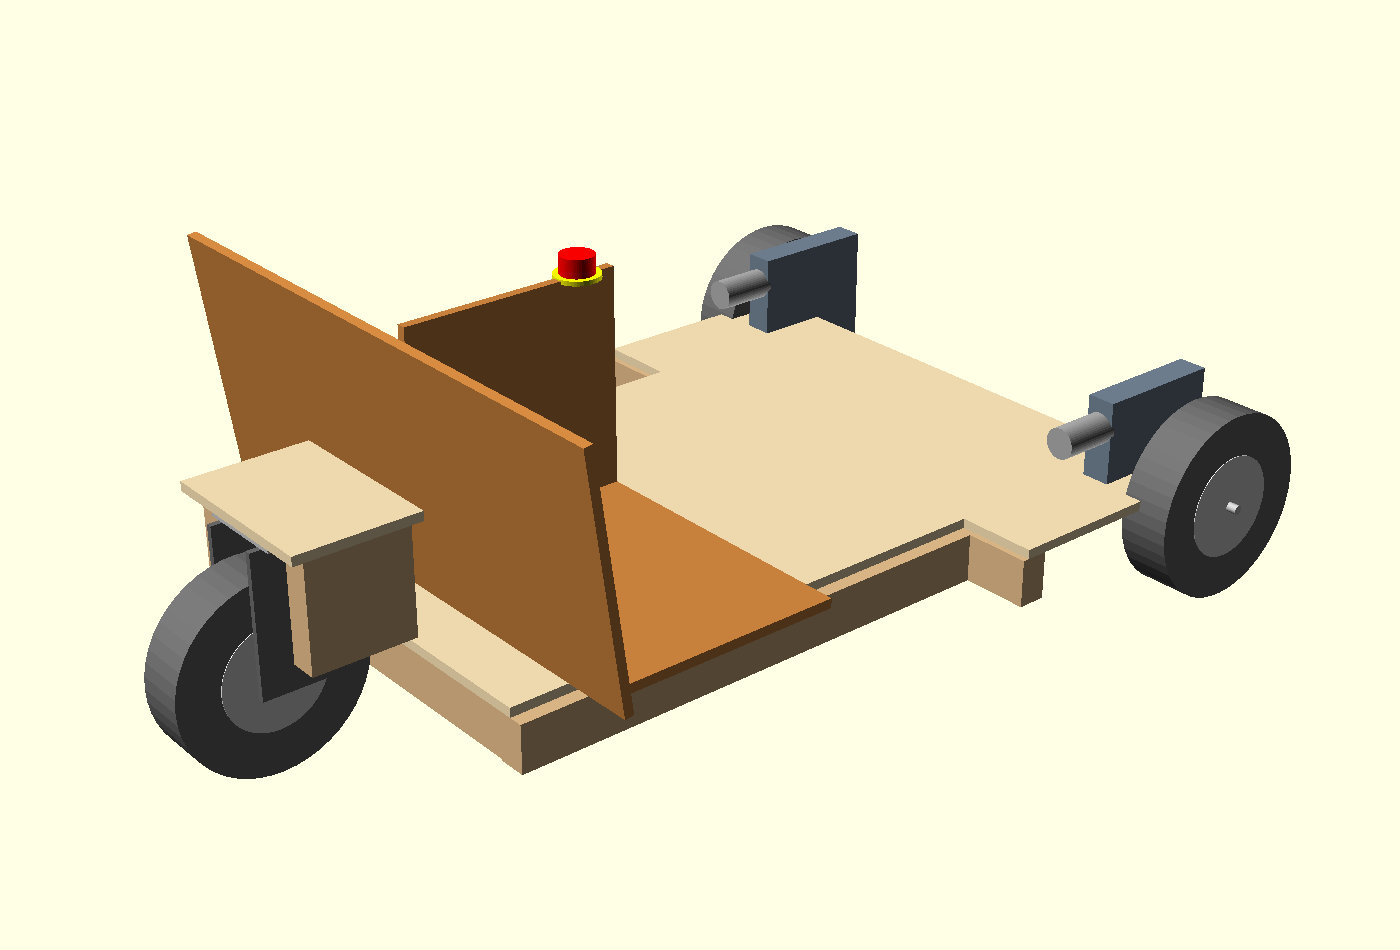
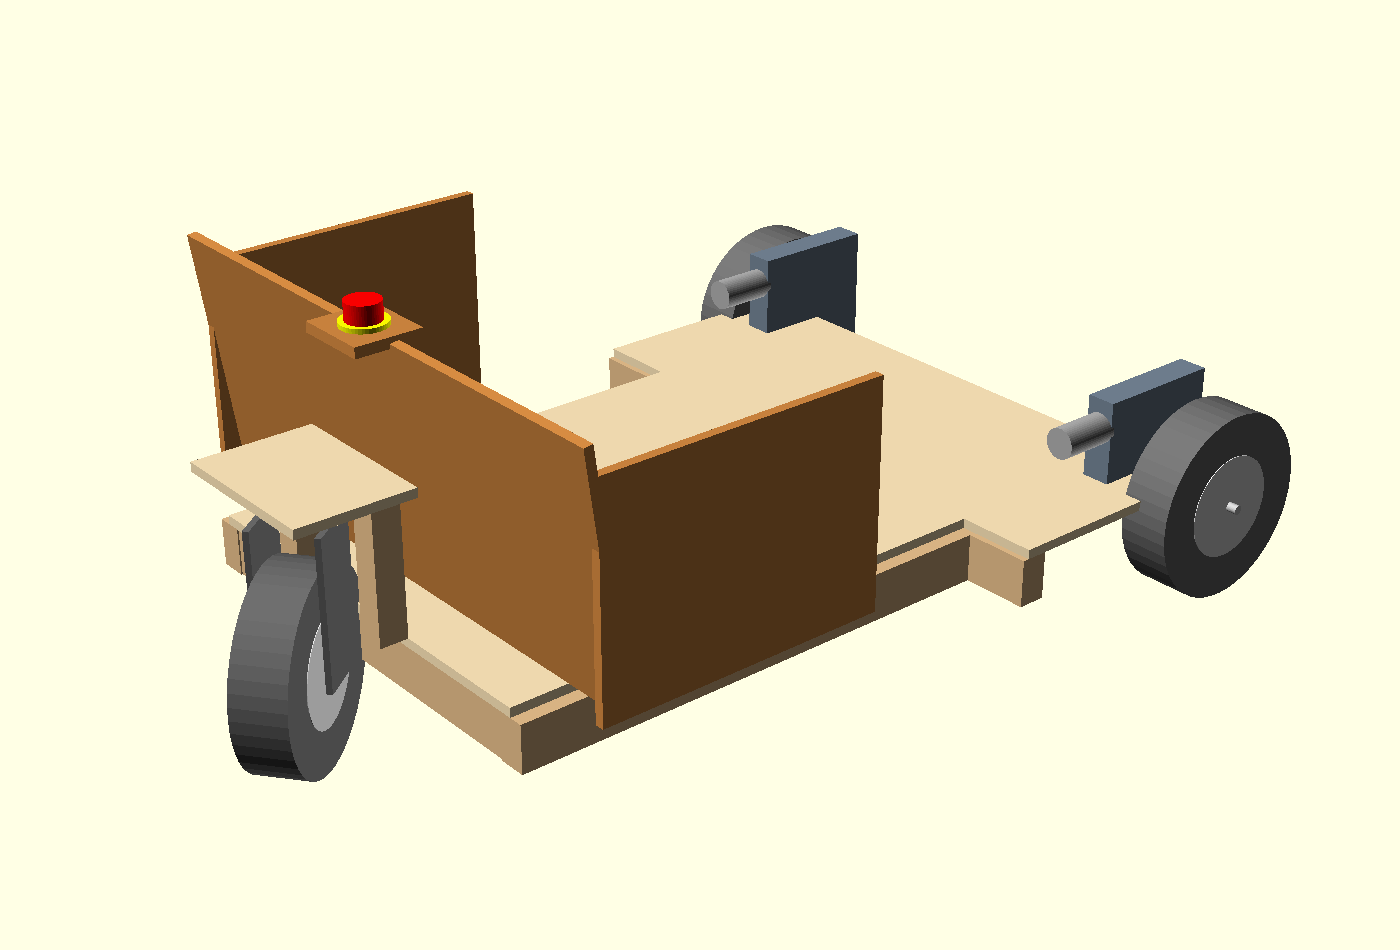
Concept : banquette continue, garde-corps latéraux, roulette pivotante visible
Changements de design demandés :
- plus de séparation centrale entre les deux places (banquette continue) ;
- garde-corps latéraux en CP 1/2" (~30 cm) de chaque côté pour empêcher un
  enfant de tomber ;
- l'arrêt d'urgence migre au SOMMET DU DOSSIER, centré (accessible aux deux
  enfants et à un adulte derrière) ;
- roulette arrière dégagée : support ouvert, axe de pivot apparent et fourche
  dessinée braquée à 38° pour montrer clairement le pivotement.
README mis en cohérence (aperçu, tables, phases de montage, limitations).

Changed region(s): [[0.1536, 0.1832, 0.645, 0.7632], [0.0921, 0.3663, 0.3071, 0.8242]]

diff --git a/README.md b/README.md
@@ -40,7 +40,7 @@ flowchart TB
     subgraph CAB["HABITACLE — banquette unique 2 places (~80 cm)"]
         direction LR
         COND["🧒 CONDUCTEUR (gauche)<br/>manette Bluetooth"]
-        SEP["🛑 séparation centrale<br/>ARRÊT D'URGENCE (e-stop)"]
+        SEP["🛑 ARRÊT D'URGENCE<br/>(sommet du dossier, centré)"]
         PASS["🧒 PASSAGER (droite)<br/>repose-pieds"]
         COND ~~~ SEP ~~~ PASS
     end
@@ -68,9 +68,9 @@ flowchart TB
 
 > Concept visuel régénérable : [`doc/cad/kart_concept.scad`](doc/cad/kart_concept.scad) (OpenSCAD —
 > 2 roues 10″ motorisées à l'avant, roulette 10″ folle sur queue surélevée, banquette 2 enfants,
-> séparation centrale + arrêt d'urgence, châssis 2×3 + contreplaqué 1/2″).
+> garde-corps latéraux, arrêt d'urgence au sommet du dossier, châssis 2×3 + contreplaqué 1/2″).
 
-**Gabarit :** longueur ~150–180 cm · largeur ~96 cm · **voie avant ~84 cm** · **2 roues motrices avant Ø25,4 cm (10″) + baie technique à l'avant** + **1 roulette arrière libre** · **séparation centrale = arrêt d'urgence** · assise basse 16 cm (anti-basculement).
+**Gabarit :** longueur ~150–180 cm · largeur ~96 cm · **voie avant ~84 cm** · **2 roues motrices avant Ø25,4 cm (10″) + baie technique à l'avant** + **1 roulette arrière libre** · **garde-corps latéraux** + **arrêt d'urgence au sommet du dossier (centré)** · assise basse 16 cm (anti-basculement).
 
 > ⚠ Réservé au **terrain plat, sous surveillance adulte**. Vitesse estimée ~8–11,5 km/h (~3,2 m/s), autonomie ~10–20 min. **Un tricycle bascule plus facilement qu'un 4 roues** → anti-renversement logiciel (voir §3).
 
@@ -87,7 +87,7 @@ flowchart TB
 | **Électronique** | **ESP32** → **driver double canal 20 A / 6–30 V** (PWM + DIR / canal), **PWM bridé ~50 %** ; **baie technique à l'AVANT** (près des 2 moteurs, câblage de puissance court) |
 | **Énergie** | **2 × packs 20 V / 5 Ah en parallèle** (diode-OR) + 2 adaptateurs vers bornes de puissance ; **logés à l'AVANT** dans la baie technique |
 | **Vitesse** | Mesurée par **2 capteurs d'angle AS5600** (un par roue, 1 par bus I²C) ; asservissement à **500 Hz** |
-| **Commandes** | Pilotage à la **manette Bluetooth** ; bouton **armement** (physique ou START de la manette, ~1 s) ; **arrêt d'urgence matériel** sur la **séparation centrale** de l'habitacle (coupe tout) **+** arrêt d'urgence logiciel = bouton **B** de la manette ; **frein électrique par défaut** |
+| **Commandes** | Pilotage à la **manette Bluetooth** ; bouton **armement** (physique ou START de la manette, ~1 s) ; **arrêt d'urgence matériel** au **sommet du dossier, centré** (coupe tout, accessible aux 2 enfants et à un adulte derrière) **+** arrêt d'urgence logiciel = bouton **B** de la manette ; **frein électrique par défaut** |
 | **Châssis** | **Bois** allégé : madriers **2×3** + plancher **contreplaqué 6 mm** |
 | **Masse** | ~**32 kg** à vide · ~**98 kg** en charge (2 enfants) |
 
@@ -99,7 +99,7 @@ flowchart TB
 - **Moteurs 12 V sur batterie 20 V** : le **PWM est plafonné à ~50 %** (≈ 10 V moyens) pour éviter la surchauffe des moteurs.
 - **Roues avant à roulement libre** : entraînées par **courroie** (poulie vissée sur la jante), elles gardent leur roulement d'origine — pas d'essieu moteur traversant.
 - **Baie technique à l'avant** : batteries + driver + ESP32 sont regroupés **à l'avant, près des 2 moteurs** → **câblage de puissance court** (moins de pertes, moins de fils ~10 AWG à tirer), masse motrice et énergie concentrées sur l'essieu moteur. Disposition longitudinale : **AVANT (2 roues motrices + baie technique) → HABITACLE → ARRIÈRE (roulette libre)**.
-- **Sécurité** : **arrêt d'urgence matériel central**, placé sur la **séparation entre les 2 places** (à portée des deux enfants), **coupe-courant général** (en série dans la gate du latch, ESP32 compris) **et** arrêt d'urgence logiciel manette (bouton B) ; démarrage par **bouton momentané** + latch low-side (2× MOSFET, l'ESP se maintient en vie), fusible par pack, **frein électrique par défaut** (déconnexion manette → freinage immédiat), coupure basse tension (LVC), **watchdog 5 s**, démarrage **désarmé** par défaut, carters sur courroies/poulies, ceinture, casque.
+- **Sécurité** : **arrêt d'urgence matériel central**, au **sommet du dossier** (à portée des deux enfants et d'un adulte derrière), **coupe-courant général** (en série dans la gate du latch, ESP32 compris) **et** arrêt d'urgence logiciel manette (bouton B) ; démarrage par **bouton momentané** + latch low-side (2× MOSFET, l'ESP se maintient en vie), fusible par pack, **frein électrique par défaut** (déconnexion manette → freinage immédiat), coupure basse tension (LVC), **watchdog 5 s**, démarrage **désarmé** par défaut, carters sur courroies/poulies, ceinture, casque.
 
 ---
 
@@ -110,7 +110,7 @@ flowchart TB
 | Longueur totale | **150 cm** (prévoir **jusqu'à ~180 cm**) | **Baie technique à l'avant** (batteries, driver, électronique, ~30 cm près des 2 moteurs) + habitacle + dossier + porte-à-faux jusqu'à la roulette arrière |
 | Largeur hors-tout | **96 cm** | Doit loger **deux enfants côte à côte** |
 | **Largeur intérieure banquette** | **~80 cm** | 2 × ~40 cm/enfant (épaules + coudes) |
-| **Séparation centrale** (cloison entre les 2 places) | hauteur **~40 cm / sol** (~24 cm au-dessus de l'assise), **centrée**, ~4 cm d'épaisseur | Cloison verticale **à portée des deux enfants** ; porte le **bouton d'arrêt d'urgence** matériel (champignon à ~35 cm) |
+| **Garde-corps latéraux** (CP 1/2″, de chaque côté de la banquette) | hauteur **~30 cm** au-dessus du plancher, longueur ~40 cm | Empêchent l'enfant de **tomber sur le côté** ; arêtes arrondies |
 | **Baie technique** (avant) | longueur ~**30 cm** (0–30 cm depuis l'essieu avant) | Loge **2 packs 20 V, driver, ESP32, breakout** près des 2 moteurs (câblage court) |
 | **Voie avant** (écartement roues motrices, axe à axe) | **84 cm** | Voie large = **anti-basculement** ET **bras de levier du différentiel** (plus la voie est large, plus le virage est franc à différentiel donné) |
 | **Empattement** (essieu AV ↔ roulette AR) | **~110 cm** | Assez long pour la stabilité (les 2 enfants restent entre l'essieu moteur et la roulette) ; la roulette ne fait que suivre, le pivot se fait sur l'essieu avant |
@@ -146,7 +146,7 @@ Repère 0 = essieu **avant** (roues motrices) ; cotes mesurées **vers l'arrièr
 
 ➡ Avec la **manette Bluetooth**, il n'y a **plus de boîtier de pédales ni de volant** à positionner : seule compte l'ergonomie d'assise. **Dossier → cale-pieds ≈ 60 cm** (95 − 35) ✔ jambe presque tendue, léger pli du genou. Prévoir un endroit sûr pour **poser/charger la manette**. Siège **réglable** (§6) pour s'adapter à la taille de l'enfant.
 
-➡ **Séparation centrale + arrêt d'urgence** : une **cloison verticale entre les 2 places** (à portée des deux enfants) porte le **bouton d'arrêt d'urgence matériel** (coupe-circuit en série dans la gate du latch). **Facilement accessible**, il **coupe tout** (puissance **et** ESP32), en complément de l'arrêt d'urgence **logiciel** de la manette (bouton **B**). Le **pilotage du véhicule reste à la manette Bluetooth**.
+➡ **Arrêt d'urgence au sommet du dossier (centré)** : le **champignon matériel** (coupe-circuit en série dans la gate du latch) est monté **en haut du dossier, au centre** — accessible aux **deux enfants** et à un **adulte qui suit le kart**. Il **coupe tout** (puissance **et** ESP32), en complément de l'arrêt d'urgence **logiciel** de la manette (bouton **B**). **Garde-corps latéraux** de chaque côté de la banquette (pas de séparation centrale : banquette continue). Le **pilotage reste à la manette Bluetooth**.
 
 ### Vue de côté
 
@@ -184,7 +184,7 @@ flowchart TB
     end
     subgraph HAB["HABITACLE — banquette unique ~80 cm"]
         COND["🧒 CONDUCTEUR (gauche)<br/>manette Bluetooth"]
-        SEP["🛑 séparation centrale<br/>ARRÊT D'URGENCE (e-stop)"]
+        SEP["🛑 ARRÊT D'URGENCE<br/>(sommet du dossier, centré)"]
         PASS["🧒 PASSAGER (droite)<br/>repose-pieds"]
         COND --- SEP --- PASS
     end
@@ -282,7 +282,7 @@ Paramètres web : **`turn_gain`** (autorité de virage), **`turn_full_ms`** / **
 | | **Buck 20 V → 5 V** (déjà disponible) | alimente l'ESP32 (qui fabrique son 3,3 V) |
 | | **Perfboard soudée** | pont diviseur Vbat 100 k/15 k (vers A0 de l'ADS1115) + condensateurs de découplage (⚠ pas de breadboard — vibrations) |
 | | **Boîtier électrique étanche** (ABS, couvercle transparent, ~150 × 100 × 70 mm, ≈IP65) | **dans la baie technique avant** ; loge ESP32 + breakout + ADS1115 + perfboard ; presse-étoupes pour les câbles ; protège poussière/pluie/chocs (couvercle clair = LED d'état visible) |
-| | Sécurité élec. | **Arrêt d'urgence (NF) en série** dans la ligne de gate (bouton **sur la séparation centrale** de l'habitacle, à portée des deux enfants) + **fusible/pack** |
+| | Sécurité élec. | **Arrêt d'urgence (NF) en série** dans la ligne de gate (champignon **au sommet du dossier, centré**, à portée des deux enfants) + **fusible/pack** |
 | | Ruban **WS2812B** (~10 LEDs) | état : vert = en route, rouge = désarmé |
 | **Commandes** | Bouton **armement** + LED | momentané ; armement = appui ~1 s (bouton physique **ou** START de la manette) |
 | **Frein** | **Frein électrique (par défaut)** ✅ | géré par le firmware (PID de plugging) ; **état par défaut = freinage** ; déconnexion manette → freinage immédiat ; pas de patin |
@@ -636,7 +636,7 @@ flowchart TB
 - ⚠ **Carter courroies/poulies** : pas de doigts/lacets/vêtements happés.
 - ⚠ **Angles arrondis**, ponçage anti-échardes, têtes de boulons fraisées/capuchonnées côté enfant.
 - ⚠ **Ceinture ventrale** ancrée au châssis ; **casque obligatoire** ; **cale-pieds**.
-- ⚠ **Arrêt d'urgence matériel central** : placé sur la **séparation entre les 2 places**, **facilement accessible aux deux enfants** ; il **coupe tout** (puissance **et** ESP32, via l'ouverture de la gate du latch). C'est l'arrêt **garanti**, en complément de l'arrêt d'urgence **logiciel** de la manette (bouton **B**). Vérifier qu'il n'est ni masqué ni bloqué, et que les enfants savent l'actionner.
+- ⚠ **Arrêt d'urgence matériel central** : au **sommet du dossier, centré**, **facilement accessible aux deux enfants** (et à un adulte derrière) ; il **coupe tout** (puissance **et** ESP32, via l'ouverture de la gate du latch). C'est l'arrêt **garanti**, en complément de l'arrêt d'urgence **logiciel** de la manette (bouton **B**). Vérifier qu'il n'est ni masqué ni bloqué, et que les enfants savent l'actionner.
 - ⚠ **Manette** : calibrée avant chaque session ; vérifier que le **bouton B (arrêt d'urgence logiciel)** freine, et que la **déconnexion** (manette éteinte / hors de portée) déclenche le freinage.
 - ⚠ **Inspection avant chaque usage** : supports moteurs, tension courroies + serrage poulies, roulette arrière, **e-stop matériel central** + e-stop manette, fixation de la baie technique (batteries à l'avant), test du frein électrique.
 - ⚠ **Terrain plat, sous surveillance**, loin de la circulation et des pentes.
@@ -692,13 +692,13 @@ flowchart LR
 
 **Phase 0 — Préparation.** Rassembler matériel (§4) et outils (perceuse, scie, clés, fer à souder, multimètre, imprimante 3D). Imprimer les 2 réducteurs (1:16) + gabarit de perçage. Travailler **batteries débranchées**.
 
-**Phase 1 — Châssis bois.** Grille 2×3 (traverses ~25–30 cm) + plancher CP 6 mm (12 mm sous banquette) + **baie technique à l'avant** (~30 cm, entre l'essieu moteur et la banquette) + banquette ~80 cm + **séparation centrale** entre les 2 places (cloison verticale recevant le bouton d'arrêt d'urgence) + dossier. ✅ *S'asseoir à deux sans flexion excessive ; le bouton d'arrêt d'urgence central tombe sous la main des deux enfants.*
+**Phase 1 — Châssis bois.** Grille 2×3 (traverses ~25–30 cm) + plancher CP 6 mm (12 mm sous banquette) + **baie technique à l'avant** (~30 cm, entre l'essieu moteur et la banquette) + banquette ~80 cm **continue** (pas de séparation) + **garde-corps latéraux** (CP 1/2″, ~30 cm) + dossier. ✅ *S'asseoir à deux sans flexion excessive ; les garde-corps retiennent bien un enfant qui glisse sur le côté.*
 
 **Phase 2 — Roues avant + roulette arrière.** 2 roues Ø30 sur **boulons à épaulement** (perçage 3/8"), tournent **libres** ; **roulette pivotante** fixée à l'arrière, pivot serré mais libre. ✅ *Voie avant 84 cm, rien ne frotte ; la roulette s'oriente seule en poussant le châssis.*
 
 **Phase 3 — Motorisations avant (remplace l'ancienne « direction »).** Sur **chaque roue avant** : poulie vissée (grandes rondelles / contre-platine) + réducteur 3D + moteur sur support renforcé + courroie + réglage tension + carter. **Pas de tringlerie** : la direction est différentielle, donc rien à régler côté volant/bielle. ✅ *Sans courant : chaque roue avant tourne à la main, courroie tendue.*
 
-**Phase 4 — Électronique de puissance ⚠ (à l'avant).** 2 packs + adaptateurs **logés dans la baie technique avant** (câblage de puissance court vers les 2 moteurs) ; chaque pack **fusible → diode idéale → rail +20 V** (diode-OR) ; **coupe-circuit latch low-side** (2× IRFZ44N sur la masse, gate via **bouton** + **opto**, pull-down + zener, **e-stop NF en série dans la gate** — voir `doc/schematics/power_latch.png`) ; **monter le bouton d'arrêt d'urgence sur la séparation centrale de l'habitacle** (à portée des deux enfants) ; driver (⚠ **polarité VB+/VB-**) → 2 moteurs avant ; **~10 AWG**, cosses serties. ✅ *Au multimètre AVANT branchement : polarité, ~20 V au driver, le bouton amorce et **l'e-stop central coupe tout** (puissance + ESP32).*
+**Phase 4 — Électronique de puissance ⚠ (à l'avant).** 2 packs + adaptateurs **logés dans la baie technique avant** (câblage de puissance court vers les 2 moteurs) ; chaque pack **fusible → diode idéale → rail +20 V** (diode-OR) ; **coupe-circuit latch low-side** (2× IRFZ44N sur la masse, gate via **bouton** + **opto**, pull-down + zener, **e-stop NF en série dans la gate** — voir `doc/schematics/power_latch.png`) ; **monter le champignon d'arrêt d'urgence au sommet du dossier, centré** (à portée des deux enfants et d'un adulte derrière) ; driver (⚠ **polarité VB+/VB-**) → 2 moteurs avant ; **~10 AWG**, cosses serties. ✅ *Au multimètre AVANT branchement : polarité, ~20 V au driver, le bouton amorce et **l'e-stop central coupe tout** (puissance + ESP32).*
 
 **Phase 5 — Électronique de commande.** ESP32 + breakout ; **buck 20→5 V** sur le rail +20 (l'ESP fabrique son 3,3 V) ; **ADS1115** (3,3 V) sur le bus 0, pont Vbat 100 k/15 k → A0 + condensateur ; **2× AS5600** : roue G sur **bus 0 (SDA18/SCL19)**, roue D sur **bus 1 (SDA27/SCL14)**, pull-ups 4,7 kΩ par bus + aimants centrés ; bouton START (GPIO16, pull-up) ; WS2812B (GPIO17). *(Réserves futures câblées non utilisées : 2× encodeur A/B 34/35 + 36/39 ; joystick sur A1/A2 de l'ADS1115.)* ✅ *Masses communes, 3,3 V/5 V présents, AS5600 détectés (0x36 sur chaque bus) + ADS1115 (0x48).*
 
@@ -726,7 +726,7 @@ Code ESP-IDF 6.1 (C++) dans [`firmware/`](firmware/) — détails dans [`firmwar
 Points à **traiter / valider avant tout usage réel**.
 
 **Sécurité & accès**
-- **L'arrêt d'urgence matériel central est le seul arrêt garanti** (bouton **sur la séparation entre les 2 places**, à portée des deux enfants ; NF en série dans la gate → ouvre les 2 MOSFET → coupe tout, ESP32 compris). Le reste (arrêt d'urgence manette, LVC, désarmement, watchdog, freinage sur déconnexion) est logiciel ; l'ESP peut aussi se couper via POWER_HOLD.
+- **L'arrêt d'urgence matériel central est le seul arrêt garanti** (champignon **au sommet du dossier, centré**, à portée des deux enfants ; NF en série dans la gate → ouvre les 2 MOSFET → coupe tout, ESP32 compris). Le reste (arrêt d'urgence manette, LVC, désarmement, watchdog, freinage sur déconnexion) est logiciel ; l'ESP peut aussi se couper via POWER_HOLD.
 - **Web non authentifié — par choix** : seul le mot de passe de l'AP protège l'accès (le changer reste recommandé). La **calibration manette** est verrouillée hors état désarmé/à l'arrêt.
 - **Dépendance à la manette** : si la manette se déconnecte, le kart **freine** (sécurité), mais le pilote perd le contrôle directionnel jusqu'à reconnexion → rouler à portée Bluetooth, manette chargée.
 
